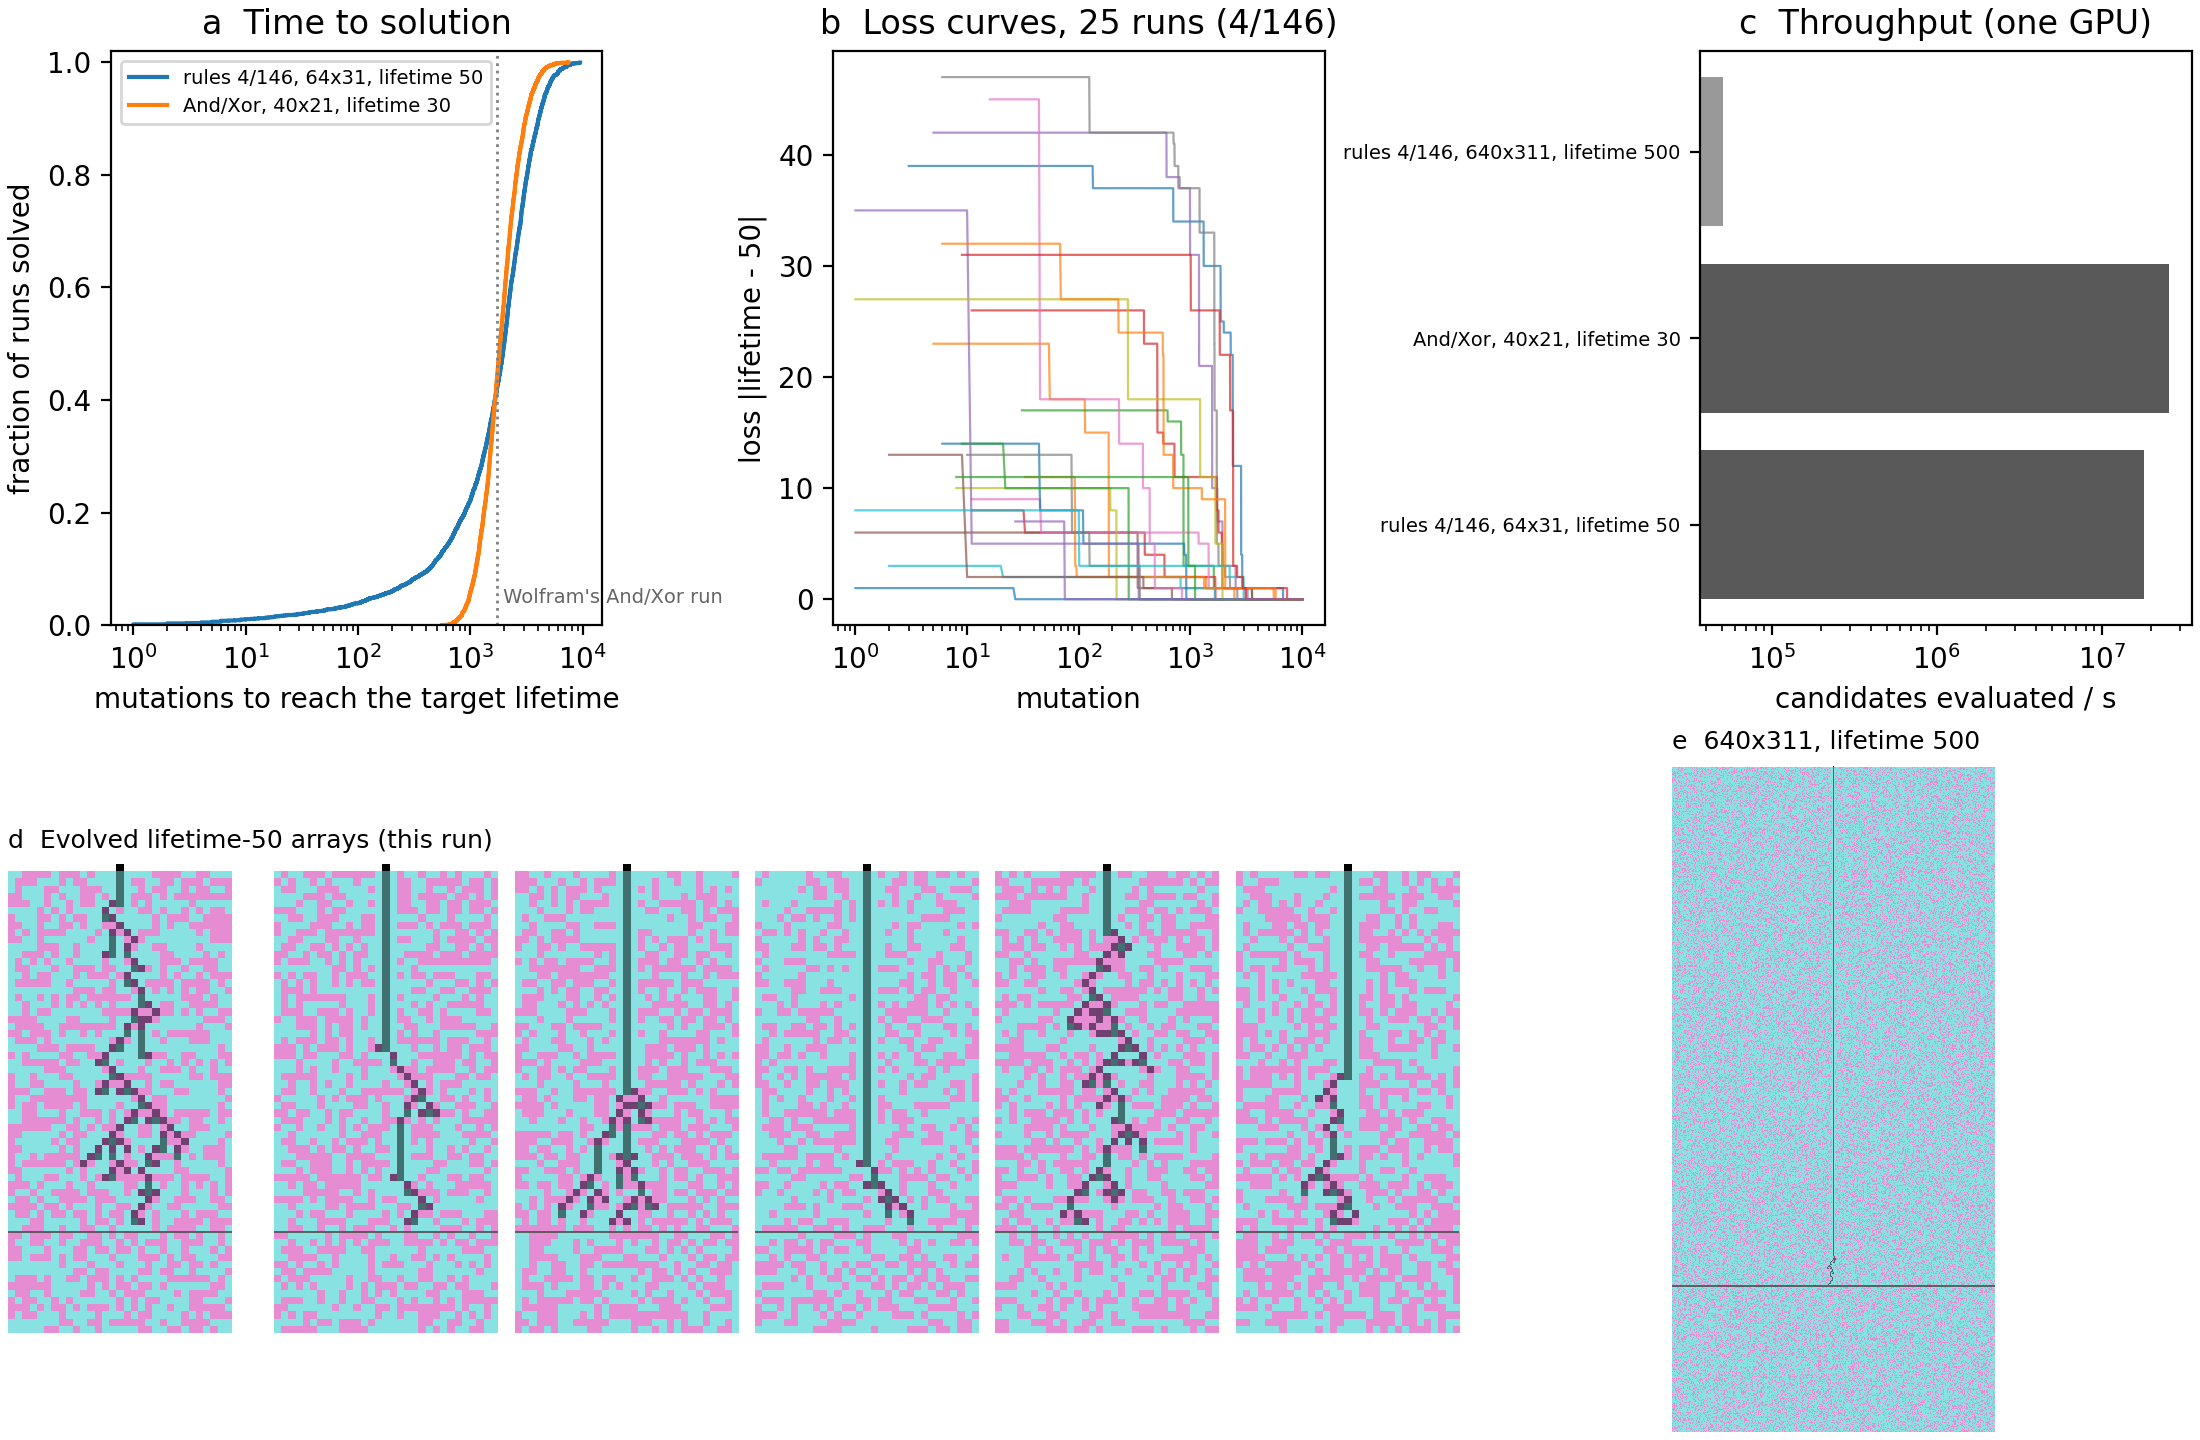
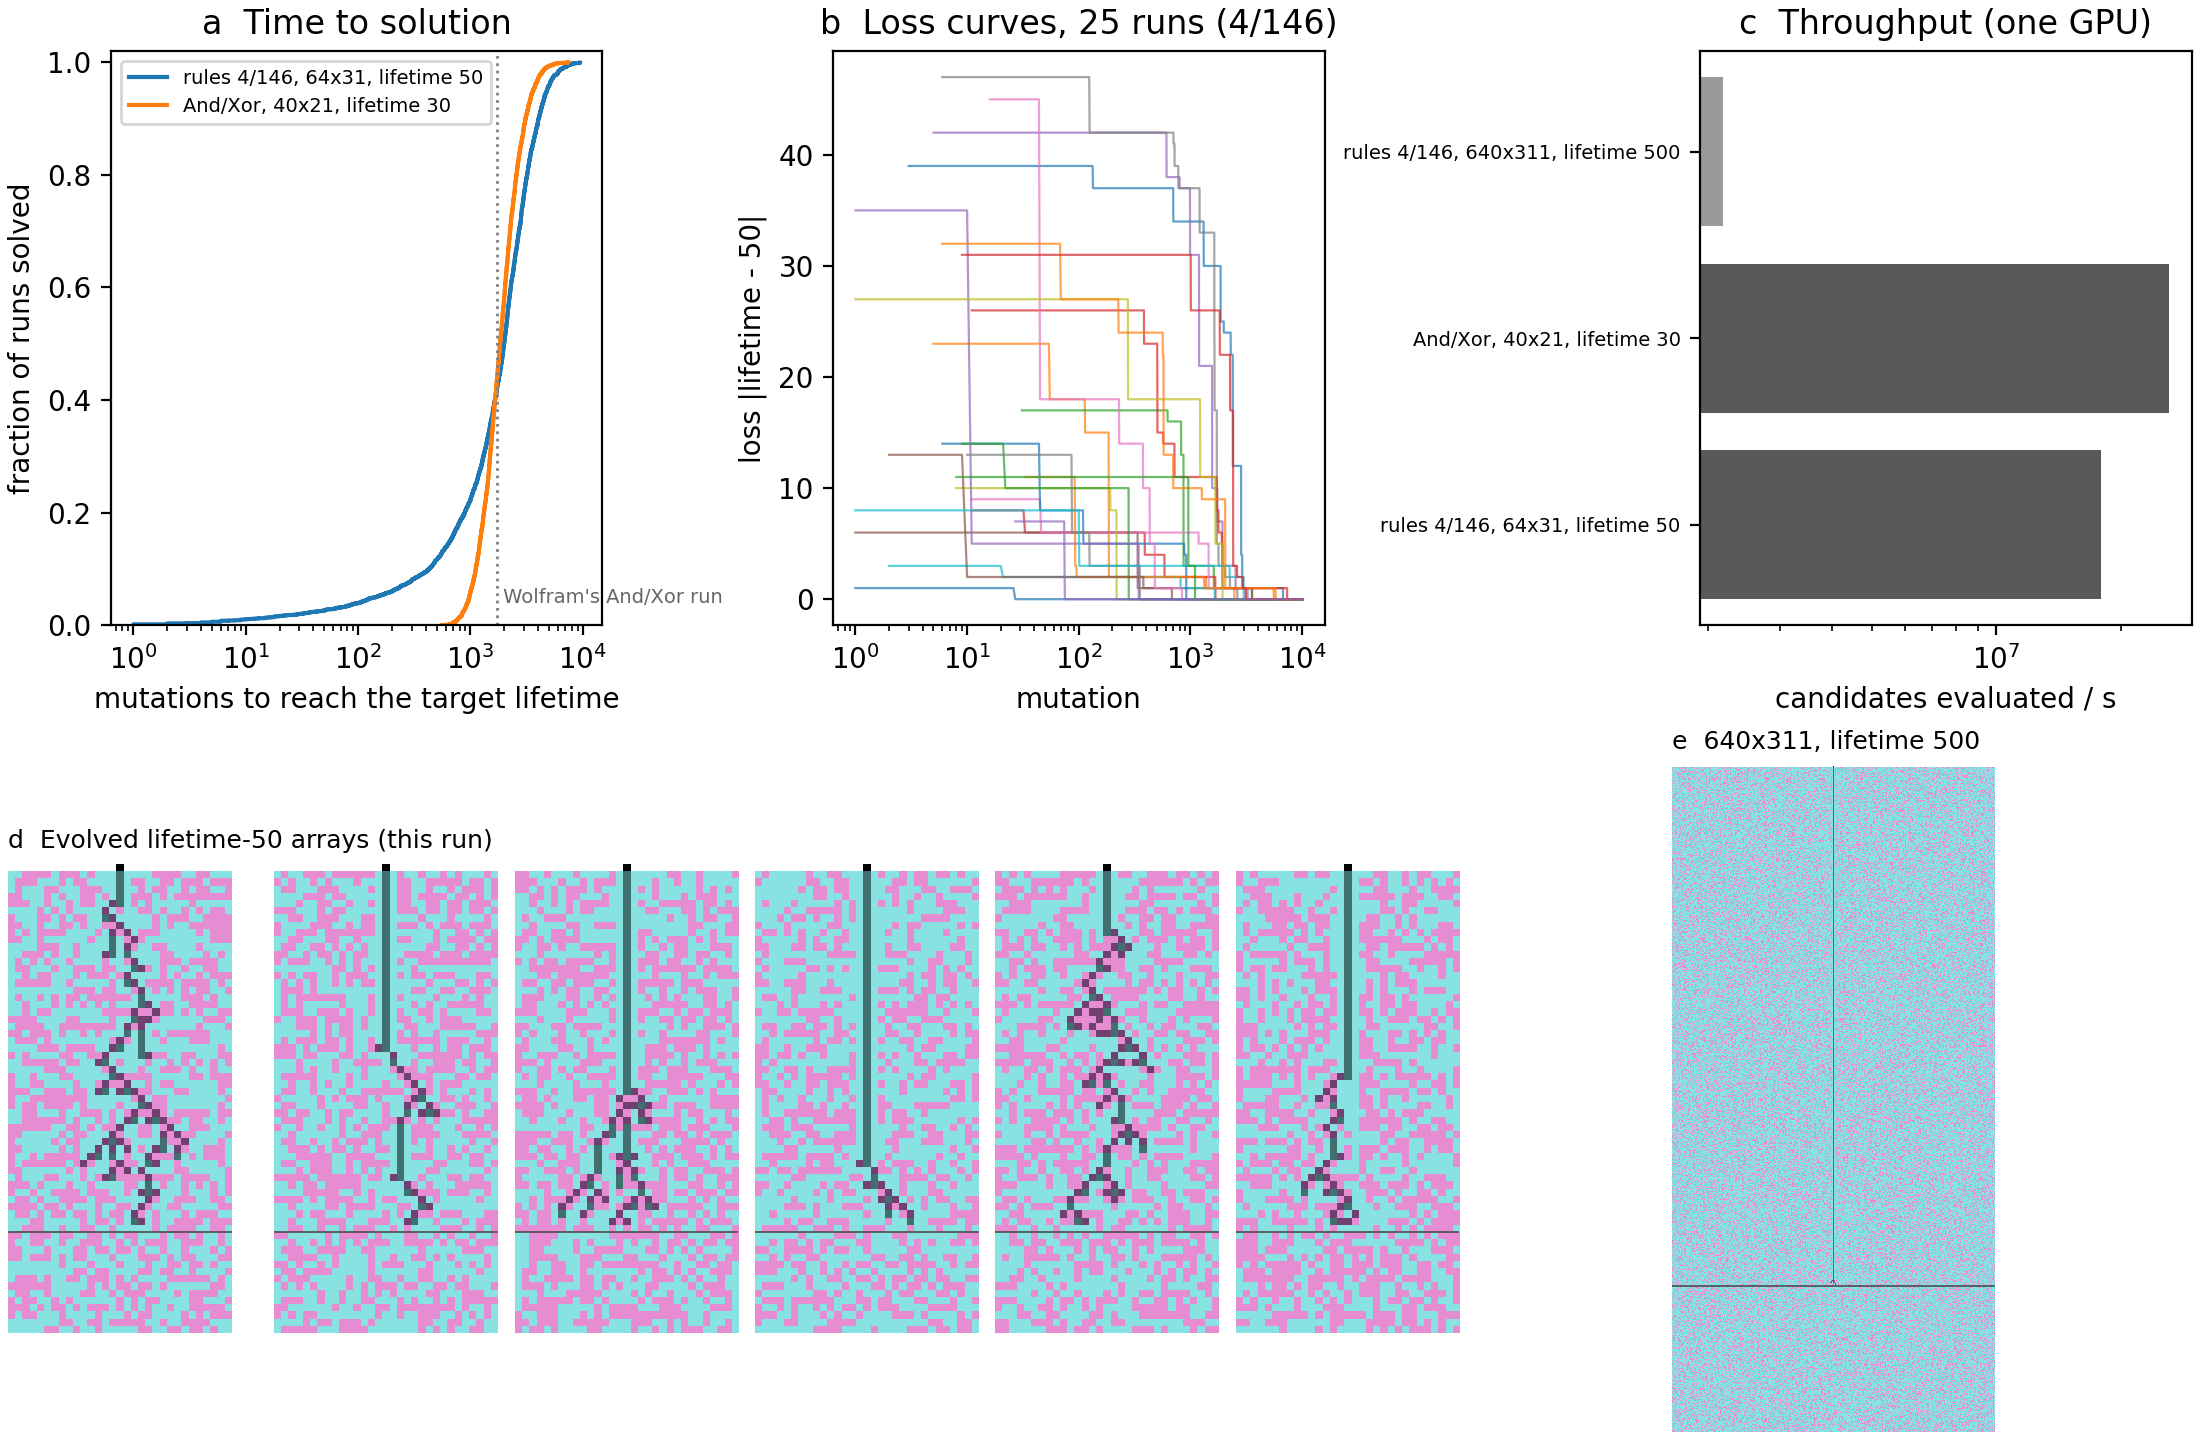
Run the reproduction's 100x scale-up on the packed engine
4,096 runs of the 640 x 311 lifetime-500 task (100,000 mutations each) now take
189 s instead of 64 runs in 127 s; 6.3% solve, as before.

Changed region(s): [[0.7418, 0.5312, 0.9273, 1.0], [0.9273, 0.3125, 0.9891, 0.4375], [0.8655, 0.4375, 0.9273, 0.4688]]

diff --git a/reproduce/wolfram_lifetime.py b/reproduce/wolfram_lifetime.py
@@ -1,7 +1,7 @@
 """Reproduce Wolfram's lifetime experiments with rule arrays, then scale one up.
 
     python reproduce/wolfram_lifetime.py                  # all parts
-    python reproduce/wolfram_lifetime.py --runs 4096 --scale-runs 128
+    python reproduce/wolfram_lifetime.py --runs 4096 --scale-runs 8192
 
 Parts
 1. Published solutions. The 12 lifetime-50 rule arrays shown in the essay (read off its figure by
@@ -13,7 +13,8 @@ Parts
    mutation, keeps mutations that do not increase the loss (|lifetime - target|, infinite if the pattern outlives
    the array), and stops at zero loss or after 10,000 mutations. Wolfram's seeds drive Mathematica's generator, so
    single runs cannot be matched; the comparison is with the distribution of outcomes.
-3. Scale-up: the rules-4/146 task on a rule array 10x taller and 10x wider (100x the cells), as a demonstration.
+3. Scale-up: the rules-4/146 task on a rule array 10x taller and 10x wider (100x the cells), as a demonstration,
+   run on bit-packed rule arrays (stica.evolve_packed_batch).
 
 Writes reproduce/results/wolfram_lifetime.json (statistics, timings, hardware) and wolfram_lifetime.png.
 """
@@ -93,10 +94,26 @@ def evolve(setup: dict, runs: int, seed: int, chunk: int):
     return res, compile_s, run_s
 
 
+def evolve_packed(setup: dict, runs: int, seed: int):
+    """The same evolution on bit-packed rule arrays (stica.evolve_packed_batch; on a GPU, one fused kernel per
+    candidate evaluation for all runs). No per-iteration trace is kept, so there are no kept-mutation statistics.
+    The single timed call includes compilation (a few seconds)."""
+    from stica import evolve_packed_batch
+    t0 = time.perf_counter()
+    res = evolve_packed_batch(jax.random.PRNGKey(seed), runs, single_cell(setup["width"]),
+                              np.zeros((setup["height"], setup["width"]), np.int8), setup["rules"],
+                              objective=LifetimeLoss(setup["target"]), iterations=setup["iterations"],
+                              radius=setup["radius"], stop_at=0.0)
+    res = jax.tree.map(np.asarray, jax.block_until_ready(res))
+    return res, 0.0, time.perf_counter() - t0
+
+
 def summarize(name: str, setup: dict, res, compile_s: float, run_s: float) -> dict:
     solved = res.solved_at > 0
     s = res.solved_at[solved]
-    kept = np.array([res.accepted[i, :res.solved_at[i]].sum() for i in np.flatnonzero(solved)])
+    accepted = getattr(res, "accepted", None)
+    kept = np.array([accepted[i, :res.solved_at[i]].sum() for i in np.flatnonzero(solved)]) \
+        if accepted is not None else np.array([])
     runs, iters = len(res.best), setup["iterations"]
     q = lambda a, p: float(np.percentile(a, p)) if len(a) else None
     return dict(
@@ -105,7 +122,7 @@ def summarize(name: str, setup: dict, res, compile_s: float, run_s: float) -> di
         mutations_to_solution=dict(median=q(s, 50), q25=q(s, 25), q75=q(s, 75), min=int(s.min()) if len(s) else None,
                                    max=int(s.max()) if len(s) else None, mean=float(s.mean()) if len(s) else None),
         kept_mutations_to_solution=dict(median=q(kept, 50), q25=q(kept, 25), q75=q(kept, 75)),
-        kept_fraction_median=q(kept / s, 50) if len(s) else None,
+        kept_fraction_median=q(kept / s, 50) if len(kept) else None,
         cells_changed_from_start=dict(median=q((res.ra[solved] != 0).sum((1, 2)), 50)),
         timing=dict(compile_seconds=compile_s, run_seconds=run_s, runs_per_second=runs / run_s,
                     candidate_evaluations_per_second=runs * iters / run_s,
@@ -202,7 +219,7 @@ def main():
     ap.add_argument("--runs", type=int, default=1024, help="independent runs per Wolfram setup")
     ap.add_argument("--chunk", type=int, default=1024, help="runs evolved in parallel per call")
     ap.add_argument("--seed", type=int, default=0)
-    ap.add_argument("--scale-runs", type=int, default=64)
+    ap.add_argument("--scale-runs", type=int, default=4096)
     ap.add_argument("--scale-height", type=int, default=640)
     ap.add_argument("--scale-width", type=int, default=311)
     ap.add_argument("--scale-target", type=int, default=500)
@@ -233,15 +250,17 @@ def main():
         setup = dict(SETUPS["rules_4_146"], height=args.scale_height, width=args.scale_width,
                      target=args.scale_target, iterations=args.scale_iterations,
                      label=f"rules 4/146, {args.scale_height}x{args.scale_width}, lifetime {args.scale_target}")
-        res, c, r = evolve(setup, args.scale_runs, args.seed + 1, args.scale_runs)
+        res, c, r = evolve_packed(setup, args.scale_runs, args.seed + 1)
         results["scale"] = summarize("scale", setup, res, c, r)
+        results["scale"]["engine"] = "stica.evolve_packed_batch (bit-packed; fused GPU kernel when on a GPU)"
+        results["scale"]["timing"]["note"] = "one call for all runs, including compilation"
         results["scale"]["final_loss"] = dict(median=float(np.median(res.best)), min=float(res.best.min()))
         best = int(np.argmin(np.where(np.isfinite(res.best), res.best, np.inf)))
         examples["scale"] = dict(solution=res.ra[best])
         s = results["scale"]
         print(f"3. {s['label']}: {s['solved_fraction']:.1%} of {s['runs']} runs solved within "
               f"{setup['iterations']} mutations; median final loss {s['final_loss']['median']}; {r:.1f} s "
-              f"(+{c:.1f} s compile)", flush=True)
+              f"including compilation", flush=True)
 
     (OUT / "wolfram_lifetime.json").write_text(json.dumps(results, indent=1) + "\n")
     make_figure(results, examples, OUT / "wolfram_lifetime.png")
